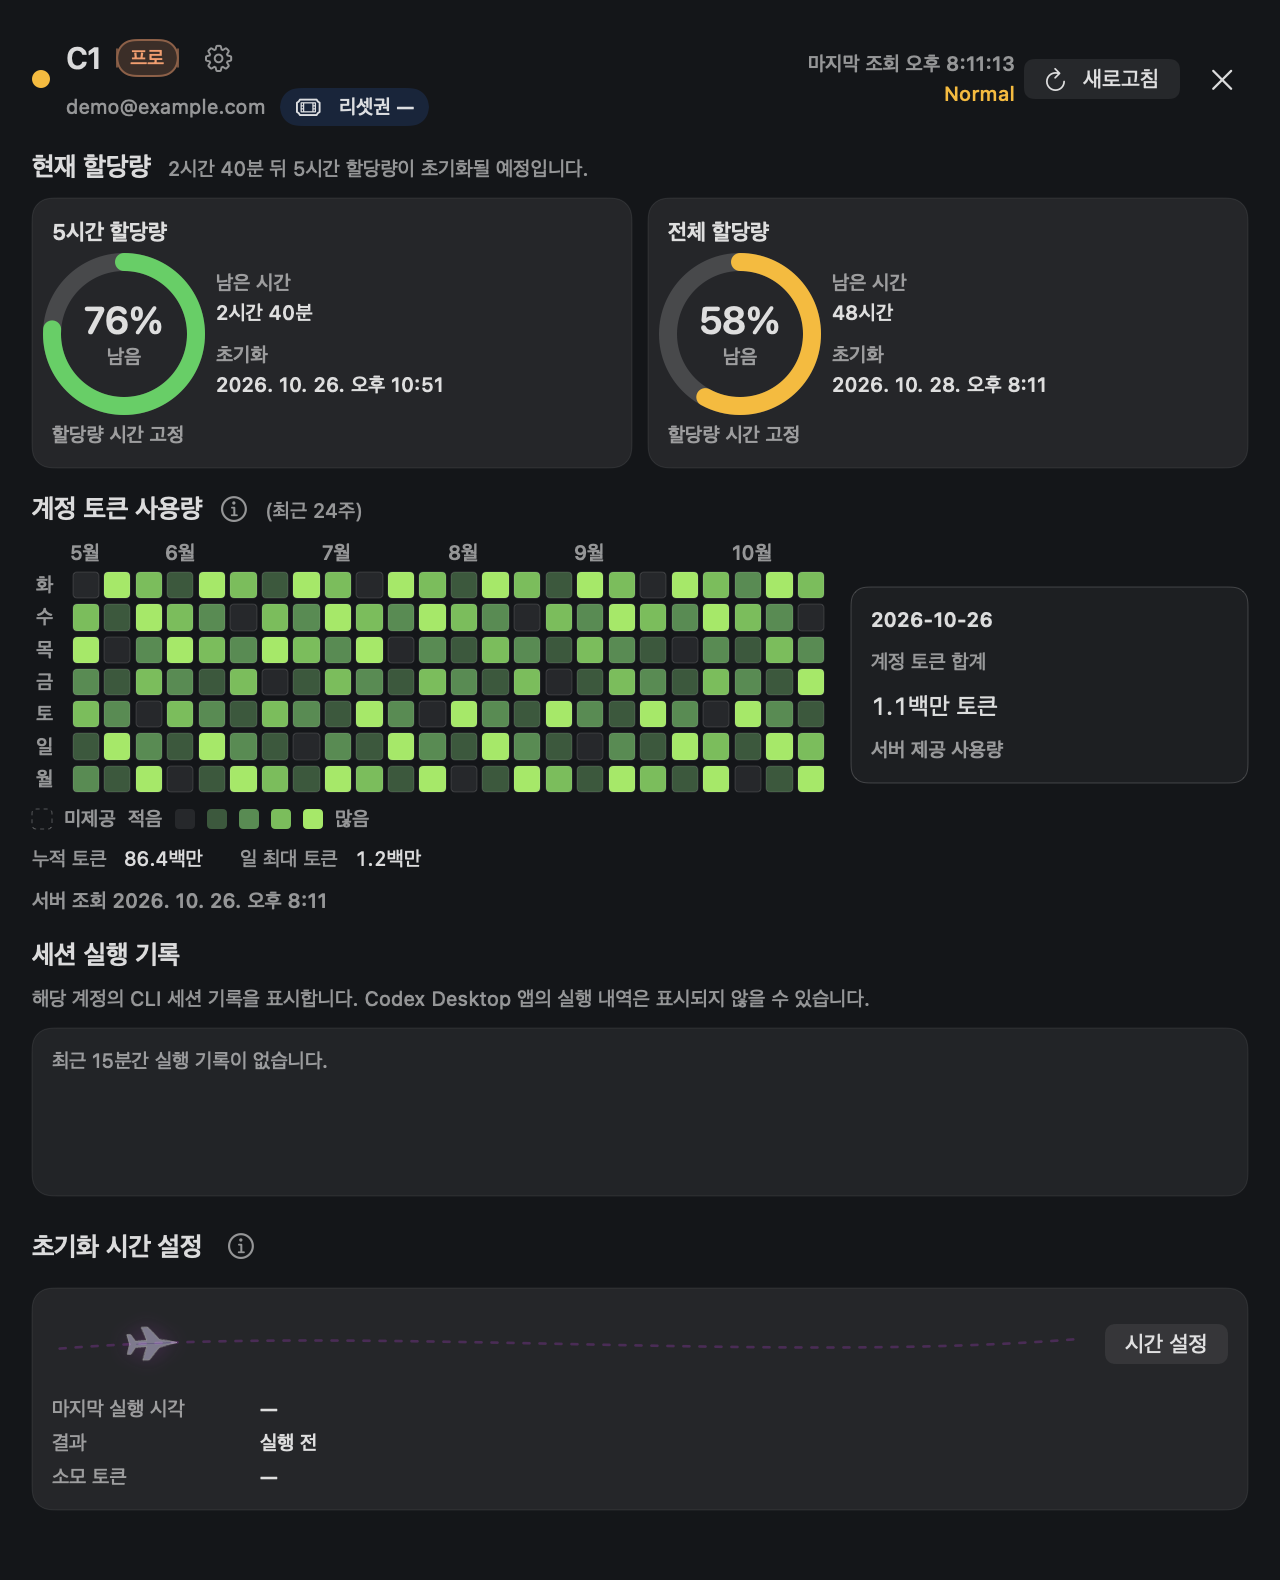
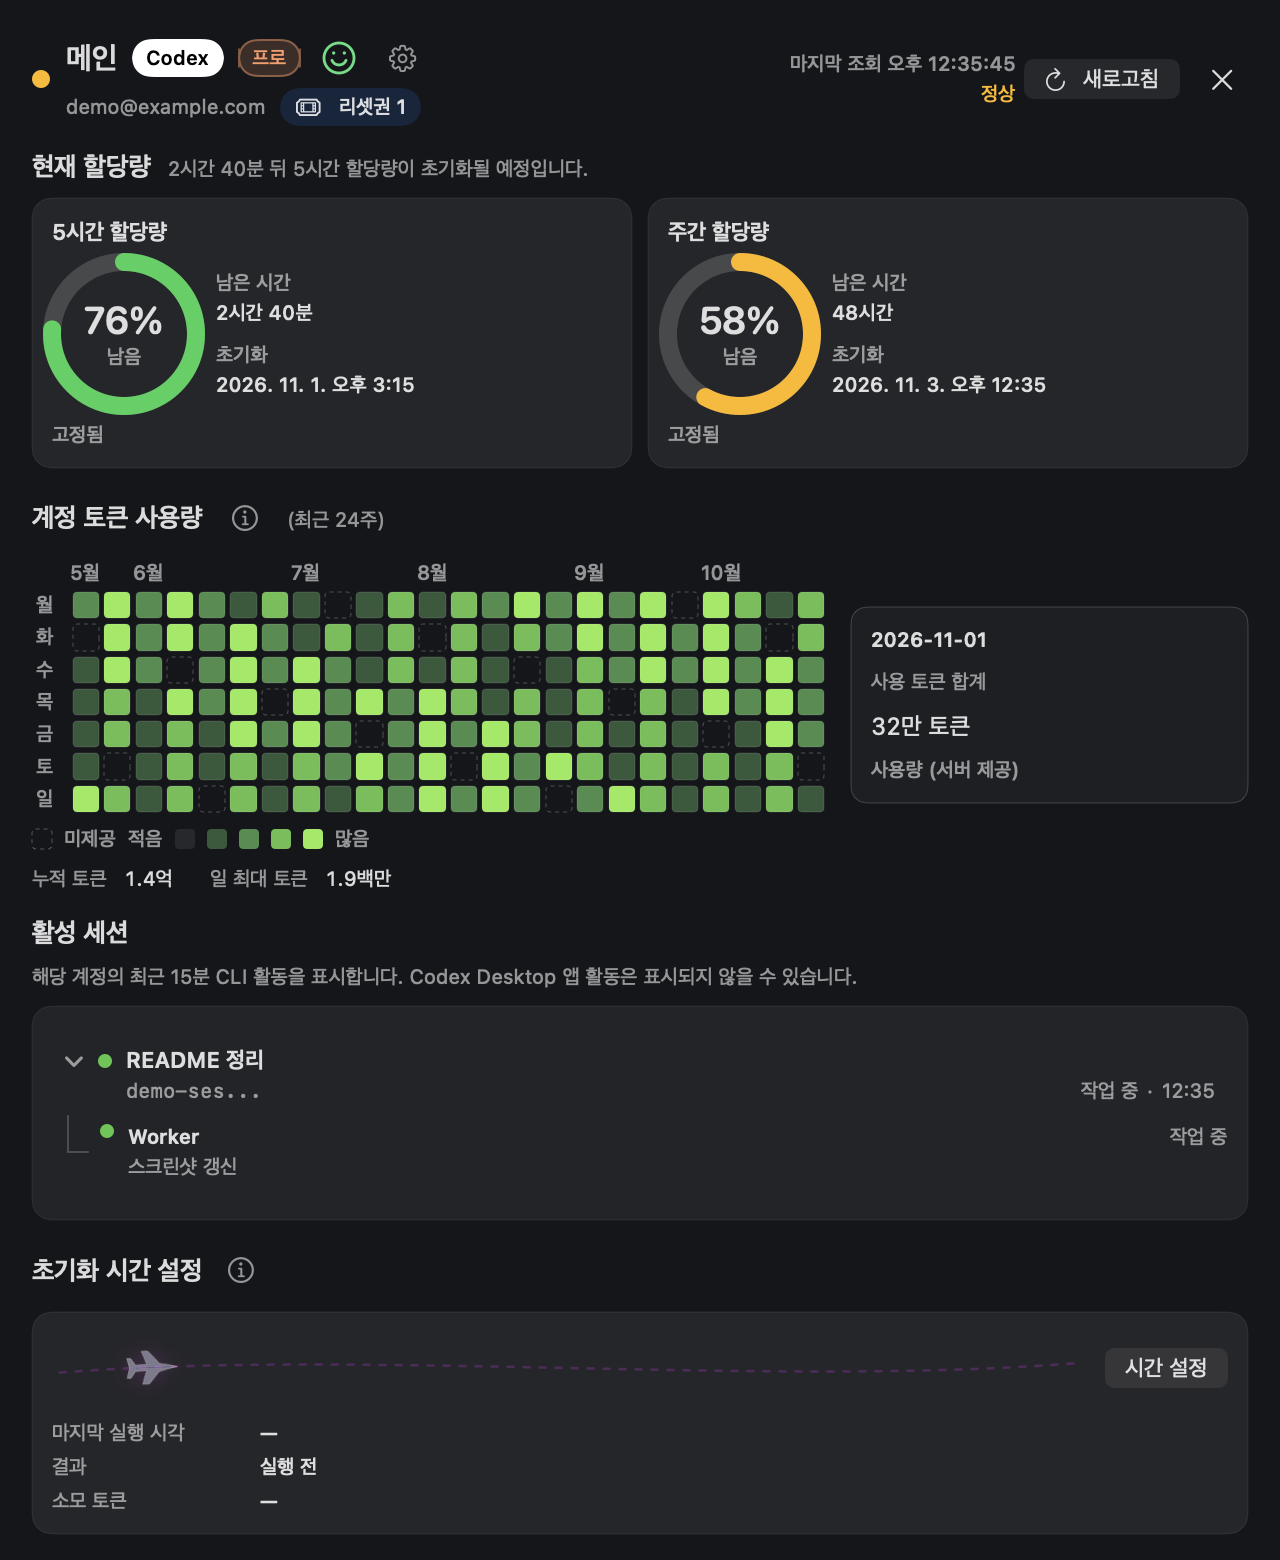
doc: README 현재 UI 기준 정리 및 스크린샷 교체
- 상단에 Codex 한 기기 내 유료계정 다중 사용 규정 관련 안내 추가
- 주요 기능 표 정리, 세부 동작 항목 제거 및 서비스 상태에 Claude 반영
- 토큰 집계 기준을 기본 12개월·제공자별 항목으로 분리
- 전체 할당량을 계정 주간 할당량으로, 도넛을 슬롯으로 용어 변경
- 사용 방법을 폴더 등록·사용 현황·슬롯 숫자·알림 기준으로 재작성
- 슬롯 스타일·계정 상세·설정 계정 탭 스크린샷을 현재 UI 예시 렌더링으로 교체
- 한글·영문 README 동일 구조 반영 확인, 앱 버전·빌드 번호 변경 없음

diff --git a/README.md b/README.md
@@ -1,10 +1,10 @@
 # Codex Quota Checker
 
-> [26.10.31] Codex·Claude의 다계정 이용 관련 규정에 따라, 한 기기에서 동일한 서비스에 여러 계정을 연결하는 것을 권장하지 않습니다.
+> **[2026-10-31]** Codex의 "한 기기 내 유료계정 다중 사용 규정"에 따라, 해당 애플리케이션에 동일 서비스 여러 계정을 등록하는 것을 권장하지 않습니다.
 
 **KOR** | [ENG](README.en.md)
 
-- Codex·Claude 계정을 구분 없이 조합해 총 최대 4개 연결 지원 (예: Codex 2개 + Claude 2개)
+- Codex·Claude 계정 합산 최대 4개 연결 지원 (제공자 구분 없이 조합 가능)
 - macOS 메뉴 막대·노치에서 연결 계정의 할당량, 세션 실행 기록, 토큰 사용량 확인
 - Codex/Claude로 제작한 비공식 독립 앱
 - 정식 릴리스: [0.6.4](https://github.com/jh-shi-n/codex_quota_checker/releases/tag/0.6.4), 빌드 `34`
@@ -15,40 +15,49 @@
 
 ### 메뉴 막대·노치 계정 표시
 
-<img src="assets/screenshots/quota-cluster.png" alt="두 계정의 할당량 잔여율과 이름을 표시하는 계정 도넛" width="220">
+- 링·숫자+가로막대·숫자+세로막대·숫자 2단 중 슬롯 스타일 선택
+
+<img src="assets/screenshots/quota-cluster.png" alt="Codex·Claude 슬롯의 5시간·주간 잔여량을 네 가지 스타일로 표시한 예시" width="424">
 
 ### 계정 상세
 
-- 5시간·전체 할당량, 최근 24주 토큰 사용량, 세션 실행 기록 및 초기화 시간 설정
+- 5시간·계정 주간 할당량, 최근 24주 토큰 사용량, 세션 실행 기록 및 초기화 시간 설정
 
 <img src="assets/screenshots/account-detail.png" alt="계정별 할당량과 토큰 사용량 잔디를 표시하는 상세 화면" width="640">
 
 ### 설정
 
-<img src="assets/screenshots/settings.png" alt="자동 새로고침 간격과 계정 연결 경로를 설정하는 화면" width="640">
+<img src="assets/screenshots/settings.png" alt="슬롯별 계정 폴더 경로와 표시·이름·순서를 설정하는 계정 탭 화면" width="560">
 
 ## 주요 기능
 
 | 기능 | 설명 |
 |---|---|
-| 할당량 확인 | 5시간·전체 할당량 잔여율, 초기화 시각과 남은 시간 표시 |
-| 계정 관리 | Codex·Claude 혼합 또는 한 종류만 총 최대 4개 연결, 이름·표시 여부·순서 설정 |
-| 토큰 사용량 | 주간 막대·선그래프 또는 최근 24주 잔디, Codex는 서버 기준 누적·일 최대 토큰, Claude는 로컬 기록 합계·일 최대 토큰 표시 |
-| Codex 당일 사용량 보완 | 당일 서버 값 우선 사용, 0이거나 미제공이면 연결 계정의 로컬 기록으로 보완 |
-| 토큰 숫자 단위 | 1만 미만은 정수, 이후 만·백만·천만·억 단위로 소수 최대 한 자리 표시; 반올림 경계에서 다음 단위 적용 |
+| 할당량 확인 | 5시간·계정 주간 할당량 잔여율, 초기화 시각과 남은 시간 표시 |
+| 계정 관리 | 계정 연결, 이름·표시 여부·순서 설정 |
+| 토큰 사용량 | 주간 막대·선그래프 또는 최근 24주 잔디, 누적·일 최대 토큰 표시 |
 | 집계 안내 | 토큰 사용량 제목 옆 `(i)`에 마우스를 올려 집계 기준·조회 상태 확인 |
 | 세션 실행 기록 | 연결 계정의 최근 CLI 세션과 하위 에이전트 활동 표시 |
-| 초기화 시간·알림 | 최소 요청 후 할당량 시간 고정 여부 확인, 초기화 사전·도달 및 일정 변경 알림 |
+| 초기화 시간·알림 | 할당량 시간 고정 여부 확인, 초기화 사전·도달 및 일정 변경 알림 |
 | 리셋권 | 잔여 개수·소멸일 확인 및 확인 창 승인 후 사용 |
-| 알림 권한·테스트 | 알림 탭 최상단에 설정 경로·권한 상태, 테스트 요청 전송 시각 또는 실패 원인 표시 |
-| 서비스 상태·업데이트 | OpenAI 서비스 상태 확인, 앱 내 업데이트 설치·재실행, 현재·최신 버전과 빌드 번호 표시 |
+| 서비스 상태·업데이트 | OpenAI·Claude 서비스 상태 확인, 앱 내 업데이트 설치·재실행 |
 
-- 4개는 Codex·Claude 합산 한도이며, 제공자별 4개씩 연결하는 방식은 미지원
-- 토큰 날짜는 UTC 기준이며 미제공 날짜는 0과 구분
-- Codex: 이전 날짜는 서버 제공 내역 사용, 로컬 보완은 연결 계정 폴더의 당일 기록 범위로 제한
-- Claude: 연결 폴더의 Stats 캐시·세션 기록으로 최근 12개월 집계, 웹·다른 기기 및 계정 전체 서버 통계 제외; 같은 폴더에서 계정 변경 시 이전 계정 기록 포함 가능
-- 초기화 시간 확인 요청은 실제 사용량 발생 가능; 알림은 macOS 권한·시스템 설정에 따라 표시
-- 알림 권한 확인 경로: **설정 → 알림 → 응용프로그램 알림**; 테스트 기록은 앱 실행 중 유지되며 전송 성공이 알림 배너 표시를 보장하지는 않음
+### 토큰 집계 기준
+
+- 날짜는 UTC 기준이며, 미제공 날짜는 0과 구분
+- 기본 최근 12개월 표시, 설정의 날짜 표시 범위로 변경 가능
+- Codex
+  - 이전 날짜: 서버 제공 내역 사용
+  - 당일: 서버 값 우선, 0이거나 미제공이면 연결 계정 폴더의 당일 로컬 기록으로 보완
+- Claude
+  - 연결 폴더의 Stats 캐시·세션 기록 기준 집계
+  - 웹·다른 기기 및 계정 전체 서버 통계 제외
+  - 같은 폴더에서 계정 변경 시 이전 계정 기록 포함 가능
+
+### 참고
+
+- 초기화 시간 확인 요청은 실제 사용량이 발생할 수 있음
+- 알림 표시는 macOS 알림 권한·시스템 설정에 따름
 
 ## 요구 사항
 
@@ -82,11 +91,10 @@ open "$PWD/dist/CodexQuotaChecker.app"
 
 ## 사용 방법
 
-- 계정 도넛 클릭: 할당량·토큰 사용량·세션 실행 기록 표시
-- 도넛 중앙 숫자: 5시간 잔여율, 외곽 링: 전체 할당량 잔여율
-- 상세 화면 진입 시 토큰 사용량 조회; 우상단 새로고침으로 즉시 갱신
-- 설정에서 계정 표시·자동 새로고침·차트 방식·날짜 표시 범위·알림·로그인 시 자동 실행 지정
-- 날짜 표시 범위를 늘려도 Codex 서버에서 미제공하거나 Claude 연결 폴더에 없는 과거 내역은 추가되지 않음
+- **LLM 서비스 로컬 폴더 등록:** 연결 가이드·설정에서 Codex(`~/.codex`)·Claude(`~/.claude`) 계정 폴더 등록
+- **사용 현황 확인:** 슬롯 클릭 시 연결된 서비스의 할당량·토큰 사용량·활동 세션 기록 표시
+- **슬롯 표기 숫자:** 5시간 잔여 사용량 / 계정 주간 사용량
+- **알림 지원:** 할당량 초기화 시 알림 제공
 
 ## 라이선스
 

diff --git a/README.en.md b/README.en.md
@@ -1,10 +1,10 @@
 # Codex Quota Checker
 
-> [26.10.31] In accordance with Codex and Claude policies on using multiple accounts, connecting multiple accounts for the same service on a single device is not recommended.
+> **[2026-10-31]** In accordance with Codex's policy on using multiple paid accounts on a single device, registering multiple accounts for the same service in this app is not recommended.
 
 [KOR](README.md) | **ENG**
 
-- Connect up to four accounts in total, using any mix of Codex and Claude (for example, two Codex + two Claude accounts)
+- Connect up to four Codex and Claude accounts in total, in any combination
 - View connected accounts' quotas, session activity, and token usage in the macOS menu bar and notch
 - An unofficial, independent app built with Codex/Claude
 - Stable release: [0.6.4](https://github.com/jh-shi-n/codex_quota_checker/releases/tag/0.6.4), build `34`
@@ -15,40 +15,49 @@
 
 ### Menu bar and notch account display
 
-<img src="assets/screenshots/quota-cluster.png" alt="Account donuts showing remaining quotas and names for two accounts" width="220">
+- Choose a slot style: ring, number + horizontal bars, number + vertical bars, or stacked numbers
+
+<img src="assets/screenshots/quota-cluster.png" alt="Codex and Claude slots showing remaining five-hour and weekly quotas in four styles" width="424">
 
 ### Account details
 
-- Five-hour and overall quotas, 24-week token usage grid, session activity, and reset-time controls
+- Five-hour and weekly account quotas, 24-week token usage grid, session activity, and reset-time controls
 
 <img src="assets/screenshots/account-detail.png" alt="Account details showing quota rings and the token usage contribution grid" width="640">
 
 ### Settings
 
-<img src="assets/screenshots/settings.png" alt="Settings for automatic refresh intervals and account folders" width="640">
+<img src="assets/screenshots/settings.png" alt="Accounts settings tab for per-slot account folders, visibility, names, and order" width="560">
 
 ## Features
 
 | Feature | Description |
 |---|---|
-| Quota monitoring | Remaining five-hour and overall quotas, reset times, and countdowns |
-| Account management | Connect up to four accounts in total, mixing Codex and Claude or using either alone; configure names, visibility, and order |
-| Token usage | Weekly bar or line charts, or a 24-week contribution grid; server lifetime and peak daily totals for Codex, local record totals and peak daily usage for Claude |
-| Today's Codex usage | Prefer today's server value; use local records from the connected account when it is zero or unavailable |
-| Token number units | Show integers below 10,000, then Korean units 만 (10,000), 백만 (1 million), 천만 (10 million), and 억 (100 million), with at most one decimal place; promote the unit at rounding boundaries |
+| Quota monitoring | Remaining five-hour and weekly account quotas, reset times, and countdowns |
+| Account management | Connect accounts; configure names, visibility, and order |
+| Token usage | Weekly bar or line charts, or a 24-week contribution grid; lifetime and peak daily totals |
 | Usage information | Hover over `(i)` beside the token usage heading for calculation rules and query status |
 | Session activity | Recent CLI sessions and subagent activity from the connected account |
-| Reset times and notifications | Check whether quota times are fixed after a minimal request; advance, scheduled reset, and schedule-change notifications |
+| Reset times and notifications | Check whether quota times are fixed; advance, scheduled reset, and schedule-change notifications |
 | Reset credits | View remaining credits and expiration dates, and approve credit use in a confirmation dialog |
-| Notification permissions and tests | A section at the top of the Notifications tab shows the settings path, permission status, and test request submission time or failure reason |
-| Service status and updates | View OpenAI service status; install updates and restart from the app; display installed and latest versions with build numbers |
+| Service status and updates | View OpenAI and Claude service status; install updates and restart from the app |
 
-- The four-account limit is shared across Codex and Claude, rather than four accounts per provider
-- Token dates use UTC, with missing data distinct from zero
-- Codex: earlier dates use server-provided history; local data supplements only today's records in the connected account folder
-- Claude: aggregate up to 12 months from the connected folder's Stats cache and session records; exclude web usage, other devices, and account-wide server statistics. Switching accounts in the same folder may include the previous account's records
-- Reset-time checks may consume usage; notifications depend on macOS permissions and system settings
-- Notification permissions: **System Settings → Notifications → Application Notifications**; test records last for the current app session, and successful submission does not guarantee a visible notification banner
+### Token usage rules
+
+- Dates use UTC, with missing data distinct from zero
+- Shows the last 12 months by default; change it with the date range setting
+- Codex
+  - Earlier dates: server-provided history
+  - Today: server value first; local records from the connected account folder when it is zero or unavailable
+- Claude
+  - Aggregated from the connected folder's Stats cache and session records
+  - Excludes web usage, other devices, and account-wide server statistics
+  - Switching accounts in the same folder may include the previous account's records
+
+### Notes
+
+- Reset-time checks may consume usage
+- Notifications depend on macOS notification permissions and system settings
 
 ## Requirements
 
@@ -82,11 +91,10 @@ open "$PWD/dist/CodexQuotaChecker.app"
 
 ## Usage
 
-- Click an account donut to view quotas, token usage, and session activity
-- Center number: remaining five-hour quota; outer ring: remaining overall quota
-- Opening account details queries token usage; use the top-right refresh button for an immediate update
-- Settings control account display, automatic refresh, chart style, date range, notifications, and launch at login
-- Expanding the date range does not add history missing from the Codex server or the connected Claude folder
+- **Register local LLM service folders:** add Codex (`~/.codex`) and Claude (`~/.claude`) account folders in the connection guide or settings
+- **View usage:** click a slot to see the connected service's quotas, token usage, and session activity
+- **Slot numbers:** remaining five-hour usage / weekly account usage
+- **Notifications:** get notified when a quota resets
 
 ## License
 
